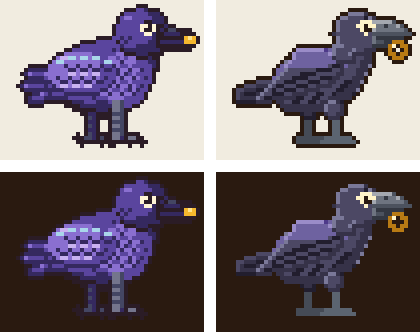
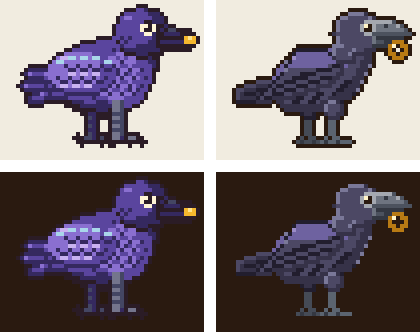
WIP: rig redraw workflow staging
Claude-Session: https://claude.ai/code/session_01PZZqg8H7qqZEmWfhXxbuJx

diff --git a/art-review/rigs/scripts/herring-gull.py b/art-review/rigs/scripts/herring-gull.py
@@ -1,0 +1,72 @@
+#!/usr/bin/env python3
+"""herring-gull "Herring Gull" (bird rig, 57 x 40, 7 parts): "Screams, swoops and steals." (medium, coast and island, level 10)
+A felt seaside gull standing side-on, chest out like it owns the chip shop: a long white body (body), a long folded silver-grey
+wing reaching past the tail with sooty black primaries and white mirror dots (wing, +r lifts it), a short white tail tucked under
+the wing tips (tail), a flat-browed white head with a big yellow hooked bill and the red gonys spot (head), a pale mean eye under a
+grey brow line (eyes), and pink webbed legs (legB darker behind, legF in front)."""
+import os, sys
+sys.path.insert(0, os.path.join(os.path.dirname(os.path.abspath(__file__)), '..'))
+from rigkit import *  # noqa
+
+R = Rig('herring-gull')
+WHITE = ('#ffffff', '#f1ece0', '#c9c5bc', '#8b8f96')
+GREY = ('#e4e8ee', '#b9c0cc', '#8b8f96', '#5b6470')
+BLACK = ('#5b5560', '#2b2630', '#1a161c', '#000000')
+LEG = PETAL
+BILL = ('#fff3c8', '#f5cf6a', '#e8a317', '#b87a14')
+G = R.ground + 1          # bottom edge of the ground row
+
+
+def leg(pid, ramp):
+    p = R.part(pid)
+    x, y = R.pv(pid)
+    p.add(p.m(capsule([(x, y - 1.5), (x + .3, G - 1.5)], 2.6, 2.2)), ramp)
+    web = poly([(x - 1.5, G - 2), (x + .5, G - 2.6), (x + 5, G - 1.2), (x + 5, G), (x - 1.8, G)])
+    p.add(p.m(web), ramp, local=True, crescent=0)
+    p.px(int(x) + 2, G - 1, ramp[3]); p.px(int(x) + 4, G - 1, ramp[3])
+
+
+p = R.part('tail')
+tail = poly([(21, 18.5), (9.5, 20), (8.5, 22.5), (10, 24.5), (21, 24)])
+p.add(p.m(tail), WHITE)
+p.line([(11, 22), (17, 21.5)], WHITE[2])
+
+leg('legB', darker(LEG))
+
+p = R.part('body')
+bod = union(rell(29, 20, 12.5, 7.2, -8), ell(36, 17, 6, 6))
+p.add(p.m(bod), WHITE, stitch=WHITE[2])
+p.add(p.m(inter(bod, lambda x, y: y < 15.5 - (x - 28) * .15)), GREY)      # grey mantle on the back
+p.pxs([(33, 24), (28, 25), (37, 22)], WHITE[2])                            # belly feather ticks
+
+leg('legF', LEG)
+
+p = R.part('wing')
+wing = union(rell(26, 17, 10, 4.4, -6), capsule([(20, 18), (13, 21), (6.5, 23.5)], 6.5, 2.6))
+p.add(p.m(wing), GREY, local=True)
+tips = inter(wing, lambda x, y: x < 15.5)
+p.add(p.m(tips), BLACK, local=True)
+p.edge(p.m(wing), GREY[3], sides=((1, 0), (0, 1), (-1, 0)))               # its own seam over the body
+p.px(11, 21, '#ffffff'); p.px(8, 23, '#ffffff')                            # white mirror dots in the black tips
+p.line([(16, 20.5), (24, 19)], WHITE[0])                                   # white tertial edge
+p.line([(21, 16), (31, 15.5)], GREY[2])                                    # covert seam
+
+p = R.part('head')
+hx, hy = 39.5, 8.8
+head = union(ell(hx, hy, 6.2, 5.6), capsule([R.pv('head'), (38, 10)], 7.5, 7))
+p.add(p.m(head), WHITE)
+bill = union(poly([(44, 7.2), (52, 7.6), (54.6, 9), (54.2, 11.5), (52.5, 10.2), (44.5, 11.2)]),
+             poly([(45, 10.4), (51, 10.6), (52, 12.6), (45.5, 12)]))
+p.add(p.m(bill), BILL, local=True, crescent=0)
+p.line([(45, 10), (52, 10)], BILL[3])                                      # gape line
+p.add(p.m(ell(51.2, 11.6, 1, 1)), (EMBER[1],) * 4, flat=True)              # the red gonys spot
+p.pxs([(34, 5), (36, 4)], WHITE[2])                                        # faint streaks on the nape
+p.px(42, 12, BLUSH)
+
+p = R.part('eyes')
+ex, ey = 40, 6
+p.add(p.m(rect(ex - 1, ey, ex + 2, ey + 2)), ('#f5cf6a',) * 4, flat=True)  # pale yellow eye
+p.px(ex + 1, ey, INK); p.px(ex + 1, ey + 1, INK)
+p.line([(ex - 2, ey - 1), (ex + 3, ey)], GREY[3])                          # the mean flat brow
+
+R.save()

diff --git a/art-review/rigs/scripts/carrion-crow.py b/art-review/rigs/scripts/carrion-crow.py
@@ -19,8 +19,10 @@ G = R.ground
 def leg(pid, ramp):
     p = R.part(pid)
     x, y = R.pv(pid)
-    p.add(p.m(capsule([(x, y + .5), (x + .3, G - .5)], 2.2, 1.8)), ramp, flat=True)
-    p.add(p.m(capsule([(x - 2.6, G + .3), (x + 4.4, G + .3)], 1.6), capsule([(x + 1, G), (x + 4.4, G + .6)], 1.6)), ramp, flat=True)
+    p.add(p.m(rect(int(x) - 1, y, int(x) + 1, G)), ramp, flat=True)                     # 2 px shank
+    p.add(p.m(rect(int(x) - 3, G - 1, int(x) + 5, G + 1)), ramp, flat=True)            # long toes on the ground
+    p.cut |= {(int(x) - 1, G - 1), (int(x) + 2, G - 1), (int(x) + 3, G - 1), (int(x) + 4, G - 1), (int(x) - 3, G - 1)}
+    p.px(int(x) + 1, G, ramp[3]); p.px(int(x) - 2, G, ramp[3])
     p.add(p.m(ell(x, y + 1, 2.4, 2.6)), darker(CROW) if pid == 'legB' else CROW, local=True)   # feathered thigh top
 
 
@@ -45,7 +47,8 @@ p.pxs([(31, 25), (28, 26), (34, 23)], CROW[3])
 # wing: folded, primaries crossing past the rump
 p = R.part('wing')
 w = poly([(20, 12.5), (27, 12), (32, 14.5), (32.5, 18), (28, 22), (20, 24.5), (11, 26), (9.5, 25), (15, 20)])
-p.add(p.m(w), CROW, stitch=None)
+wm = p.add(p.m(w), CROW, stitch=None)
+p.edge(wm, CROW[3], sides=((0, -1),))                                                  # a dark seam where the wing sits on the back
 p.add(p.m(inter(w, poly([(20, 12), (28, 11.5), (33, 15), (24, 17.5), (17, 16.5)]))), (SHEEN[0], SHEEN[1], SHEEN[2], SHEEN[3]))   # covert shoulder
 for a, b in (((28, 19), (12, 24.5)), ((26, 17.5), (14, 22)), ((30, 16.5), (19, 19.5))):
     p.line([a, b], CROW[3])
@@ -69,9 +72,9 @@ p.pxs([(33, 13), (31, 11), (34, 12)], CROW[0])                                  
 # eyes: a pale clever eye with a sly lid
 p = R.part('eyes')
 ex, ey = 37, 6
-p.add(p.m(ell(ex + .5, ey + .5, 2.2, 2.0)), (CREAM,) * 4, flat=True)
+p.add(p.m(ell(ex + 1, ey + 1, 2.0, 2.0)), (BILL[0],) * 4, flat=True)                  # pale grey ring
 p.add(p.m(rect(ex, ey, ex + 2, ey + 2)), (INK,) * 4, flat=True)
-p.px(ex + 1, ey, CREAM)
-p.line([(ex - 2, ey - 1), (ex + 2, ey - 2)], CROW[3])
+p.px(ex, ey, CREAM)
+p.line([(ex - 2, ey - 2), (ex + 2, ey - 2)], CROW[3])                                 # a sly flat lid
 
 R.save()
